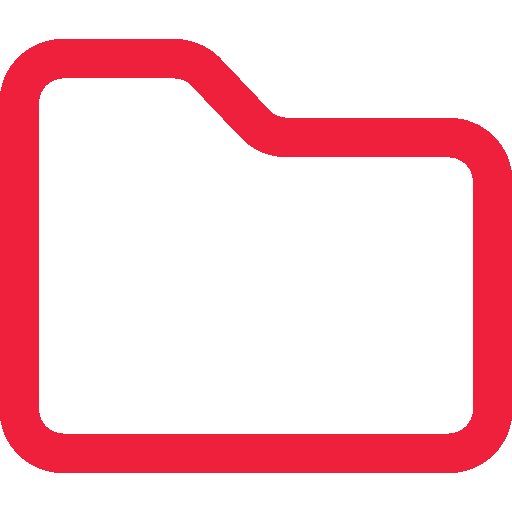
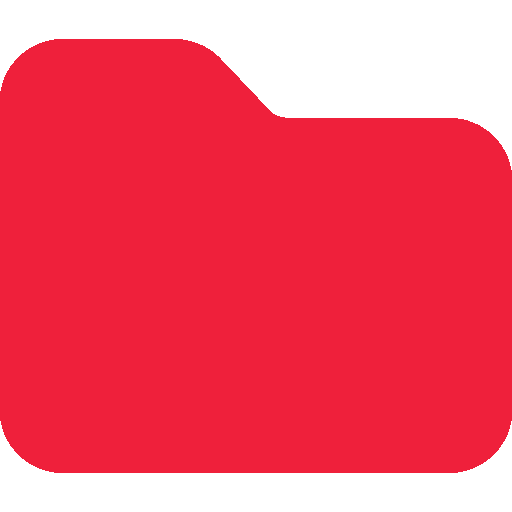
Folder display

diff --git a/src/pages/Folders/Folders.css b/src/pages/Folders/Folders.css
@@ -1,0 +1,99 @@
+.folderContainer{
+    height: 180px;
+    width: 175px;
+    margin: 5px;
+    display: flex;
+    flex-direction: column;
+    justify-content: space-evenly;
+    align-items: center;
+    text-align: center;
+    transition: 0.25s;
+    border-radius: 5px;
+    cursor: pointer;
+}
+
+.folderContainer:hover{
+    background-color: #444;
+    transition: 0.25s;
+}
+
+.folderContainer > img{
+    width: 80px;
+    max-height: 80px;
+    user-select: none;
+}
+
+.folderContainer > h3 {
+    font-size: 1.2em;
+    font-weight: 100;
+    height: 2.4em;
+    color: white;
+    margin: 0;
+
+    word-wrap: break-word;
+    overflow: hidden;
+    text-overflow: ellipsis;
+    user-select: none;
+}
+
+
+
+.folderWrap{
+    width: 90%;
+    display: flex;
+    margin: auto;
+    flex-wrap: wrap;
+    justify-content: left;
+    padding-bottom: 100px;
+}
+
+.titleAndAdd{
+    display: flex;
+    justify-content: space-between;
+    padding-right: 100px;
+    padding-left: 30px;
+    align-items: center;
+    margin-top: 10px;
+}
+
+
+
+
+
+
+
+
+.addButtonFolder{
+    background-color: #ef273e;
+    color: white;
+    font-size: 1em;
+    border-radius: 5px;
+    border: 5px solid #ef273e;
+    cursor: pointer;
+    padding: 5px;
+    display: flex;
+    justify-content: center;
+    align-items: center;
+    height: 35px;
+    width: 35px;
+}
+
+.addButtonFolder > img{
+    width: 20px;
+}
+
+.addInputFolder{
+    border: 1px solid white;
+    border-radius: 5px;
+    background: transparent;
+    height: 35px;
+    margin: 0 10px 0 0;
+    padding: 10px;
+    color: white;
+}
+
+.flexAdd{
+    display: flex;
+    flex-direction: row;
+    align-items: center;
+}

diff --git a/src/pages/Folders/Folders.js b/src/pages/Folders/Folders.js
@@ -1,7 +1,12 @@
 import { useEffect, useState } from "react";
 import { createNewFolder, deleteFolder, editFolder, getAllFolders } from "../../services/folder";
-
+import Header from "../../components/Header/Header";
+import folderIcon from "../../images/folder_vermelho.png";
+import folderAdd from "../../images/addFolder.png"
+import './Folders.css'
 const Folders = () => {
+    const [openMenu, setOpenMenu] = useState(false);
+
     const [folders, setFolders] = useState([]);
 
     useEffect(() => {
@@ -31,11 +36,28 @@ const Folders = () => {
 
     return(
         <div>
-            {folders.map((folder) => {
-                return(
-                    <h1>{folder.name}</h1>
-                )
-            })}
+            <Header openMenu={openMenu} setOpenMenu={setOpenMenu}/>
+            <div className={`content ${openMenu ? 'content-menu-aberto' : ''}`}>
+                
+                <div className="titleAndAdd">
+                    <h1>Pastas</h1>
+                    <div className="flexAdd">
+                        <input className="addInputFolder"/>
+                        <div className="addButtonFolder"><img src={folderAdd}/></div>
+                    </div>
+                </div>
+
+                <div className="folderWrap">
+                    {folders.map((folder) => {
+                        return(
+                            <div className="folderContainer">
+                                <img src={folderIcon}/>
+                                <h3>{folder.name}</h3>
+                            </div>
+                        )
+                    })}
+                </div>
+            </div>
         </div>
     )
 }

diff --git a/src/pages/Tags/Tags.js b/src/pages/Tags/Tags.js
@@ -1,7 +1,11 @@
 import { useEffect, useState } from "react";
 import { getTags, createNewTag, editTag, deleteTag } from "../../services/tag";
+import Header from "../../components/Header/Header";
 
 const Tags = () => {
+
+    const [openMenu, setOpenMenu] = useState(false);
+
     const [tags, setTags] = useState([]);
     const [tag, setTag] = useState({ name:'', color:null });
 
@@ -31,14 +35,17 @@ const Tags = () => {
     }
 
     return(
-        <>
+        <div>
+            <Header openMenu={openMenu} setOpenMenu={setOpenMenu}/>
+            <div className={`content ${openMenu ? 'content-menu-aberto' : ''}`}>
             <h1>Tags</h1>
-            {tags.map((tag) => {
-                return(
-                    <h1>{tag.name}</h1>
-                )
-            })}
-        </>
+                {tags.map((tag) => {
+                    return(
+                        <h1>{tag.name}</h1>
+                        )
+                    })}
+            </div>
+        </div>
     )
 }
 

diff --git a/src/index.css b/src/index.css
@@ -4,12 +4,18 @@
 }
 
 body {
+  background-color: #1b1c19;
   margin: 0;
   font-family: 'FiraSans', -apple-system, BlinkMacSystemFont, 'Segoe UI', 'Roboto', 'Oxygen',
     'Ubuntu', 'Cantarell', 'Fira Sans', 'Droid Sans', 'Helvetica Neue',
     sans-serif;
   -webkit-font-smoothing: antialiased;
   -moz-osx-font-smoothing: grayscale;
+}
+
+h1, h2{
+  color: white;
+  margin: 30px 0px 30px 30px;
 }
 
 html * {

diff --git a/src/pages/Main/Main.css b/src/pages/Main/Main.css
@@ -1,6 +1,5 @@
 .mainPage{
     min-height: 100vh;
-    background-color: #1b1c19;
     color: white;
     width: 100%;
     text-align: center;
@@ -110,6 +109,12 @@
     flex-wrap: wrap;
     justify-content: space-between;
     padding-bottom: 100px;
+}
+
+
+.snippetContainer::after{
+    content: "";
+    flex: auto;
 }
 
 .content{

diff --git a/src/components/Header/styles.js b/src/components/Header/styles.js
@@ -50,7 +50,7 @@ export const SearchBar = styled.div`
   border: none;
   margin: 0 10px;
   width: 80%;
-  height: 24px;
+  height: 30px;
   font-size: 1.0em;
   color: white;
   `;
